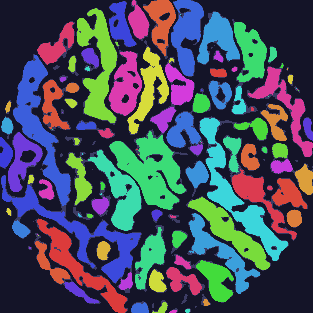
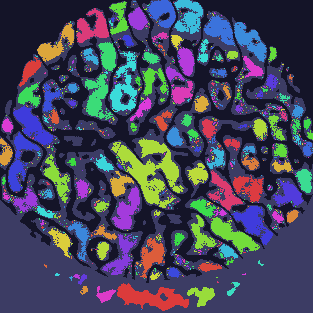
Add shelf components and fix classification to use GetBiome/GetBiomeHeight
- ZoneClassifier: Replace GetBaseHeight-based classification with
  GetBiome() + GetBiomeHeight() logic matching BiomeMapExporter.
  Ocean biome -> Deep, non-ocean with height < 30 -> Shallow, else Land.
  Rename options: SeaLevelBaseHeight -> WaterLevel, ShallowDepthBelowSea -> ShallowDepth.

- ShelfComponent: New class for Land+Shallow connected components,
  tracks ContainedLandComponentIds.

- ComponentLabeler: Add LabelShelf() for shelf connected-component analysis
  using BFS flood-fill over Land union Shallow zones.

- LandComponentExporter: Export both land_components.png and shelf_components.png.
  Add shelf labeling, rendering, and summary stats.

- Update ZoneClassifierTests for renamed options properties. All 8 tests pass.

New distribution (seed HHcLC5acQt):
  Land: 28.0%, Shallow: 40.7%, Deep: 31.2%
  1120 land components, 45 shelf components

diff --git a/src/WorldZones.Regions/ComponentLabeler.cs b/src/WorldZones.Regions/ComponentLabeler.cs
@@ -105,5 +105,101 @@ namespace WorldZones.Regions
 
             return components;
         }
+
+        /// <summary>
+        /// Labels all connected shelf components (DepthClass.Land ∪ DepthClass.Shallow)
+        /// in the grid using 4-neighbor adjacency.
+        /// Each shelf is mapped to the <see cref="LandComponent"/>s it contains via
+        /// <paramref name="landLabelGrid"/> (produced by <see cref="LabelLand"/>).
+        /// Returns components sorted by descending zone count.
+        /// </summary>
+        public static List<ShelfComponent> LabelShelf(
+            ZoneGrid grid,
+            int[,] landLabelGrid,
+            out int[,] shelfLabelGrid)
+        {
+            if (grid == null)
+                throw new ArgumentNullException(nameof(grid));
+            if (landLabelGrid == null)
+                throw new ArgumentNullException(nameof(landLabelGrid));
+
+            int size = grid.Size;
+            int min = grid.MinIndex;
+            int max = grid.MaxIndex;
+
+            shelfLabelGrid = new int[size, size];
+            for (int y = 0; y < size; y++)
+                for (int x = 0; x < size; x++)
+                    shelfLabelGrid[y, x] = -1;
+
+            var components = new List<ShelfComponent>();
+            int nextId = 0;
+
+            for (int zy = min; zy <= max; zy++)
+            {
+                for (int zx = min; zx <= max; zx++)
+                {
+                    int gy = zy - min;
+                    int gx = zx - min;
+
+                    var dc = grid[zx, zy];
+                    if (dc != DepthClass.Land && dc != DepthClass.Shallow)
+                        continue;
+                    if (shelfLabelGrid[gy, gx] >= 0)
+                        continue;
+
+                    // BFS flood fill over Land ∪ Shallow
+                    var component = new ShelfComponent(nextId);
+                    var landIds = new HashSet<int>();
+                    var queue = new Queue<Vector2i>();
+                    queue.Enqueue(new Vector2i(zx, zy));
+                    shelfLabelGrid[gy, gx] = nextId;
+
+                    while (queue.Count > 0)
+                    {
+                        var cur = queue.Dequeue();
+                        component.Zones.Add(cur);
+
+                        // Track which land components are inside this shelf
+                        int cgy = cur.y - min;
+                        int cgx = cur.x - min;
+                        int landLabel = landLabelGrid[cgy, cgx];
+                        if (landLabel >= 0)
+                            landIds.Add(landLabel);
+
+                        foreach (var (dx, dy) in Neighbors)
+                        {
+                            int nx = cur.x + dx;
+                            int ny = cur.y + dy;
+
+                            if (nx < min || nx > max || ny < min || ny > max)
+                                continue;
+
+                            int ngy = ny - min;
+                            int ngx = nx - min;
+
+                            if (shelfLabelGrid[ngy, ngx] >= 0)
+                                continue;
+
+                            var ndc = grid[nx, ny];
+                            if (ndc != DepthClass.Land && ndc != DepthClass.Shallow)
+                                continue;
+
+                            shelfLabelGrid[ngy, ngx] = nextId;
+                            queue.Enqueue(new Vector2i(nx, ny));
+                        }
+                    }
+
+                    component.ContainedLandComponentIds.AddRange(landIds);
+                    component.ContainedLandComponentIds.Sort();
+                    components.Add(component);
+                    nextId++;
+                }
+            }
+
+            components.Sort((a, b) => b.Zones.Count.CompareTo(a.Zones.Count));
+
+            return components;
+        }
     }
 }

diff --git a/tests/unity/Assets/Editor/LandComponentExporter.cs b/tests/unity/Assets/Editor/LandComponentExporter.cs
@@ -8,16 +8,19 @@ using WorldZones.WorldGen;
 using Debug = UnityEngine.Debug;
 
 /// <summary>
-/// Unity Editor tool that exports a land-component map PNG for a given seed.
+/// Unity Editor tool that exports land_components.png and shelf_components.png for a given seed.
 /// Run via command line:
 ///   Unity.exe -projectPath ... -executeMethod LandComponentExporter.Export -seed HHcLC5acQt [-output path.png]
 /// Or via menu: Tools > Export Land Component Map
+/// The shelf map is saved alongside the land map with "_shelf" suffix.
 /// </summary>
 public static class LandComponentExporter
 {
     // Non-land zones
     static readonly Color32 ColorDeep    = new Color32(20, 20, 40, 255);
     static readonly Color32 ColorShallow = new Color32(60, 60, 100, 255);
+    // Land zones rendered as mid-gray in the shelf view
+    static readonly Color32 ColorLandInShelfView = new Color32(100, 100, 100, 255);
 
     /// <summary>
     /// Command-line entry point. Called via -executeMethod LandComponentExporter.Export
@@ -155,17 +158,85 @@ public static class LandComponentExporter
         var fileInfo = new FileInfo(outputPath);
         Debug.Log($"PNG save: {swSave.ElapsedMilliseconds} ms ({fileInfo.Length / 1024} KB)");
 
+        // ── 7. Label shelf components ─────────────────────────────
+        var swShelfLabel = Stopwatch.StartNew();
+        var shelfComponents = ComponentLabeler.LabelShelf(grid, labelGrid, out int[,] shelfLabelGrid);
+        swShelfLabel.Stop();
+        Debug.Log($"Shelf labeling: {swShelfLabel.ElapsedMilliseconds} ms");
+        Debug.Log($"Shelf components: {shelfComponents.Count}");
+
+        for (int i = 0; i < Math.Min(shelfComponents.Count, 10); i++)
+        {
+            var sc = shelfComponents[i];
+            Debug.Log($"  #{i}: {sc.Zones.Count} zones, {sc.ContainedLandComponentIds.Count} land components (id={sc.Id})");
+        }
+        if (shelfComponents.Count > 10)
+            Debug.Log($"  ... and {shelfComponents.Count - 10} more");
+
+        // ── 8. Render shelf PNG ───────────────────────────────────
+        var swShelfRender = Stopwatch.StartNew();
+        byte[] shelfRgb = new byte[size * size * 3];
+
+        for (int gy = 0; gy < size; gy++)
+        {
+            for (int gx = 0; gx < size; gx++)
+            {
+                int zx = gx + grid.MinIndex;
+                int zy = gy + grid.MinIndex;
+                var depth = grid[zx, zy];
+
+                Color32 c;
+                if (depth == DepthClass.Land || depth == DepthClass.Shallow)
+                {
+                    int label = shelfLabelGrid[gy, gx];
+                    c = ComponentColor(label);
+                }
+                else
+                {
+                    c = ColorDeep;
+                }
+
+                int py = size - 1 - gy;
+                int offset = (py * size + gx) * 3;
+                shelfRgb[offset]     = c.r;
+                shelfRgb[offset + 1] = c.g;
+                shelfRgb[offset + 2] = c.b;
+            }
+        }
+
+        swShelfRender.Stop();
+        Debug.Log($"Shelf render: {swShelfRender.ElapsedMilliseconds} ms");
+
+        // ── 9. Save shelf PNG ─────────────────────────────────────
+        string shelfPath = outputPath.Replace("_land_components", "_shelf_components")
+                                     .Replace("land_components", "shelf_components");
+        if (shelfPath == outputPath)
+        {
+            // Fallback: insert _shelf before extension
+            string ext = Path.GetExtension(outputPath);
+            shelfPath = outputPath.Substring(0, outputPath.Length - ext.Length) + "_shelf" + ext;
+        }
+
+        var swShelfSave = Stopwatch.StartNew();
+        PngWriter.Write(shelfPath, size, size, shelfRgb);
+        swShelfSave.Stop();
+        var shelfFileInfo = new FileInfo(shelfPath);
+        Debug.Log($"Shelf PNG save: {swShelfSave.ElapsedMilliseconds} ms ({shelfFileInfo.Length / 1024} KB)");
+
         Debug.Log("=== Summary ===");
         Debug.Log($"WorldGen init:  {swInit.ElapsedMilliseconds} ms");
         Debug.Log($"Classification: {swClassify.ElapsedMilliseconds} ms");
-        Debug.Log($"Labeling:       {swLabel.ElapsedMilliseconds} ms");
-        Debug.Log($"Render:         {swRender.ElapsedMilliseconds} ms");
-        Debug.Log($"PNG save:       {swSave.ElapsedMilliseconds} ms");
+        Debug.Log($"Land labeling:  {swLabel.ElapsedMilliseconds} ms");
+        Debug.Log($"Shelf labeling: {swShelfLabel.ElapsedMilliseconds} ms");
+        Debug.Log($"Render:         {swRender.ElapsedMilliseconds + swShelfRender.ElapsedMilliseconds} ms");
+        Debug.Log($"PNG save:       {swSave.ElapsedMilliseconds + swShelfSave.ElapsedMilliseconds} ms");
         long totalMs = swInit.ElapsedMilliseconds + swClassify.ElapsedMilliseconds
-                     + swLabel.ElapsedMilliseconds + swRender.ElapsedMilliseconds
-                     + swSave.ElapsedMilliseconds;
+                     + swLabel.ElapsedMilliseconds + swShelfLabel.ElapsedMilliseconds
+                     + swRender.ElapsedMilliseconds + swShelfRender.ElapsedMilliseconds
+                     + swSave.ElapsedMilliseconds + swShelfSave.ElapsedMilliseconds;
         Debug.Log($"Total:          {totalMs} ms");
-        Debug.Log($"Output:         {outputPath}");
+        Debug.Log($"Land output:    {outputPath}");
+        Debug.Log($"Shelf output:   {shelfPath}");
     }
 
     /// <summary>

diff --git a/src/WorldZones.Regions/ZoneClassifier.cs b/src/WorldZones.Regions/ZoneClassifier.cs
@@ -9,32 +9,38 @@ namespace WorldZones.Regions
     public class ZoneClassifierOptions
     {
         /// <summary>
-        /// Base-height value at sea level. Zones at or above this are Land.
-        /// Valheim default ≈ 0.05.
+        /// Height value at the water surface, in the units returned by the sampler.
+        /// For base-height samplers this is ~0.05; for biome-height (world units) it is 30f.
+        /// Zones at or above this are Land.
         /// </summary>
-        public float SeaLevelBaseHeight { get; set; } = 0.05f;
+        public float WaterLevel { get; set; } = 30f;
 
         /// <summary>
-        /// How far below sea level counts as Shallow (rather than Deep),
-        /// in base-height units (not meters).
-        /// A zone with baseHeight &gt;= SeaLevelBaseHeight - ShallowDepthBelowSea is Shallow.
+        /// How far below <see cref="WaterLevel"/> a zone can be and still count as
+        /// Shallow (rather than Deep), in the same units as <see cref="WaterLevel"/>.
+        /// A zone with height &gt;= WaterLevel - ShallowDepth is Shallow.
+        /// Default 0 means there is no shallow band when using height thresholds alone.
         /// </summary>
-        public float ShallowDepthBelowSea { get; set; } = 0.02f;
+        public float ShallowDepth { get; set; } = 0f;
     }
 
     /// <summary>
-    /// Classifies every zone in a <see cref="ZoneGrid"/> as Land, Shallow, or Deep
-    /// by sampling <see cref="WorldGenerator.GetBaseHeight"/> at each zone center.
+    /// Classifies every zone in a <see cref="ZoneGrid"/> as Land, Shallow, or Deep.
+    /// The <see cref="WorldGenerator"/> overload mirrors the BiomeMapExporter logic:
+    /// Ocean biome → Deep, non-ocean with GetBiomeHeight &lt; 30 → Shallow, else → Land.
     /// </summary>
     public static class ZoneClassifier
     {
+        /// <summary>Water surface height in world units (metres).</summary>
+        public const float DefaultWaterLevel = 30f;
+
         /// <summary>
         /// Fills <paramref name="grid"/> with <see cref="DepthClass"/> values
         /// by sampling <paramref name="heightSampler"/> at each zone center.
-        /// Deterministic for a given sampler.
+        /// Useful for unit testing with synthetic height functions.
         /// </summary>
         /// <param name="grid">The zone grid to populate.</param>
-        /// <param name="heightSampler">Returns base height given (worldX, worldZ).</param>
+        /// <param name="heightSampler">Returns a height value given (worldX, worldZ).</param>
         /// <param name="options">Classification thresholds. Uses defaults when null.</param>
         public static void Classify(ZoneGrid grid, Func<float, float, float> heightSampler, ZoneClassifierOptions options = null)
         {
@@ -44,18 +50,18 @@ namespace WorldZones.Regions
                 throw new ArgumentNullException(nameof(heightSampler));
 
             var opts = options ?? new ZoneClassifierOptions();
-            float seaLevel = opts.SeaLevelBaseHeight;
-            float shallowThreshold = seaLevel - opts.ShallowDepthBelowSea;
+            float waterLevel = opts.WaterLevel;
+            float shallowThreshold = waterLevel - opts.ShallowDepth;
 
             foreach (var coord in grid.AllCoords())
             {
                 var center = ZoneGrid.ZoneCenter(coord);
-                float baseHeight = heightSampler(center.worldX, center.worldZ);
+                float height = heightSampler(center.worldX, center.worldZ);
 
                 DepthClass depth;
-                if (baseHeight >= seaLevel)
+                if (height >= waterLevel)
                     depth = DepthClass.Land;
-                else if (baseHeight >= shallowThreshold)
+                else if (height >= shallowThreshold)
                     depth = DepthClass.Shallow;
                 else
                     depth = DepthClass.Deep;
@@ -66,18 +72,42 @@ namespace WorldZones.Regions
 
         /// <summary>
         /// Fills <paramref name="grid"/> with <see cref="DepthClass"/> values
-        /// by sampling the world generator at each zone center.
-        /// Deterministic for a given seed.
+        /// using the same logic as BiomeMapExporter:
+        /// Ocean biome → Deep; non-ocean with GetBiomeHeight &lt; 30 → Shallow; else → Land.
         /// </summary>
         /// <param name="grid">The zone grid to populate.</param>
         /// <param name="worldGen">World generator initialised with the desired seed.</param>
-        /// <param name="options">Classification thresholds. Uses defaults when null.</param>
-        public static void Classify(ZoneGrid grid, WorldGenerator worldGen, ZoneClassifierOptions options = null)
+        public static void Classify(ZoneGrid grid, WorldGenerator worldGen)
         {
+            if (grid == null)
+                throw new ArgumentNullException(nameof(grid));
             if (worldGen == null)
                 throw new ArgumentNullException(nameof(worldGen));
 
-            Classify(grid, (wx, wz) => worldGen.GetBaseHeight(wx, wz), options);
+            foreach (var coord in grid.AllCoords())
+            {
+                var center = ZoneGrid.ZoneCenter(coord);
+                float wx = center.worldX;
+                float wz = center.worldZ;
+
+                var biome = worldGen.GetBiome(wx, wz);
+
+                DepthClass depth;
+                if (biome == BiomeType.Ocean)
+                {
+                    depth = DepthClass.Deep;
+                }
+                else if (worldGen.GetBiomeHeight(biome, wx, wz) < DefaultWaterLevel)
+                {
+                    depth = DepthClass.Shallow;
+                }
+                else
+                {
+                    depth = DepthClass.Land;
+                }
+
+                grid[coord] = depth;
+            }
         }
     }
 }

diff --git a/src/WorldZones.Regions/ShelfComponent.cs b/src/WorldZones.Regions/ShelfComponent.cs
@@ -1,0 +1,23 @@
+using System.Collections.Generic;
+using WorldZones.WorldGen;
+
+namespace WorldZones.Regions
+{
+    /// <summary>
+    /// A connected component of Land ∪ Shallow zones (the continental shelf).
+    /// Each shelf component may contain zero or more <see cref="LandComponent"/>s.
+    /// </summary>
+    public class ShelfComponent
+    {
+        /// <summary>Zero-based component identifier.</summary>
+        public int Id { get; }
+
+        /// <summary>All zone coordinates belonging to this shelf component.</summary>
+        public List<Vector2i> Zones { get; } = new List<Vector2i>();
+
+        /// <summary>IDs of <see cref="LandComponent"/>s fully contained within this shelf.</summary>
+        public List<int> ContainedLandComponentIds { get; } = new List<int>();
+
+        public ShelfComponent(int id) => Id = id;
+    }
+}

diff --git a/tests/WorldZones.Regions.Tests/ZoneClassifierTests.cs b/tests/WorldZones.Regions.Tests/ZoneClassifierTests.cs
@@ -12,8 +12,8 @@ namespace WorldZones.Regions.Tests
 
         private static readonly ZoneClassifierOptions Defaults = new ZoneClassifierOptions
         {
-            SeaLevelBaseHeight  = 0.05f,
-            ShallowDepthBelowSea = 0.02f
+            WaterLevel   = 0.05f,
+            ShallowDepth = 0.02f
         };
 
         // ── 1. Classification thresholds ──────────────────────────────
@@ -42,7 +42,7 @@ namespace WorldZones.Regions.Tests
         public void Height_just_below_sea_level_is_Shallow()
         {
             var grid = SmallGrid();
-            // 0.04 is below seaLevel (0.05) but above shallowThreshold (0.03)
+            // 0.04 is below WaterLevel (0.05) but above shallowThreshold (0.03)
             ZoneClassifier.Classify(grid, (_, __) => 0.04f, Defaults);
 
             foreach (var c in grid.AllCoords())
@@ -53,9 +53,8 @@ namespace WorldZones.Regions.Tests
         public void Height_at_shallow_threshold_is_Shallow()
         {
             var grid = SmallGrid();
-            // Use the same arithmetic the classifier uses to avoid float mismatch:
-            // shallowThreshold = SeaLevelBaseHeight - ShallowDepthBelowSea
-            float threshold = Defaults.SeaLevelBaseHeight - Defaults.ShallowDepthBelowSea;
+            // shallowThreshold = WaterLevel - ShallowDepth
+            float threshold = Defaults.WaterLevel - Defaults.ShallowDepth;
             ZoneClassifier.Classify(grid, (_, __) => threshold, Defaults);
 
             foreach (var c in grid.AllCoords())